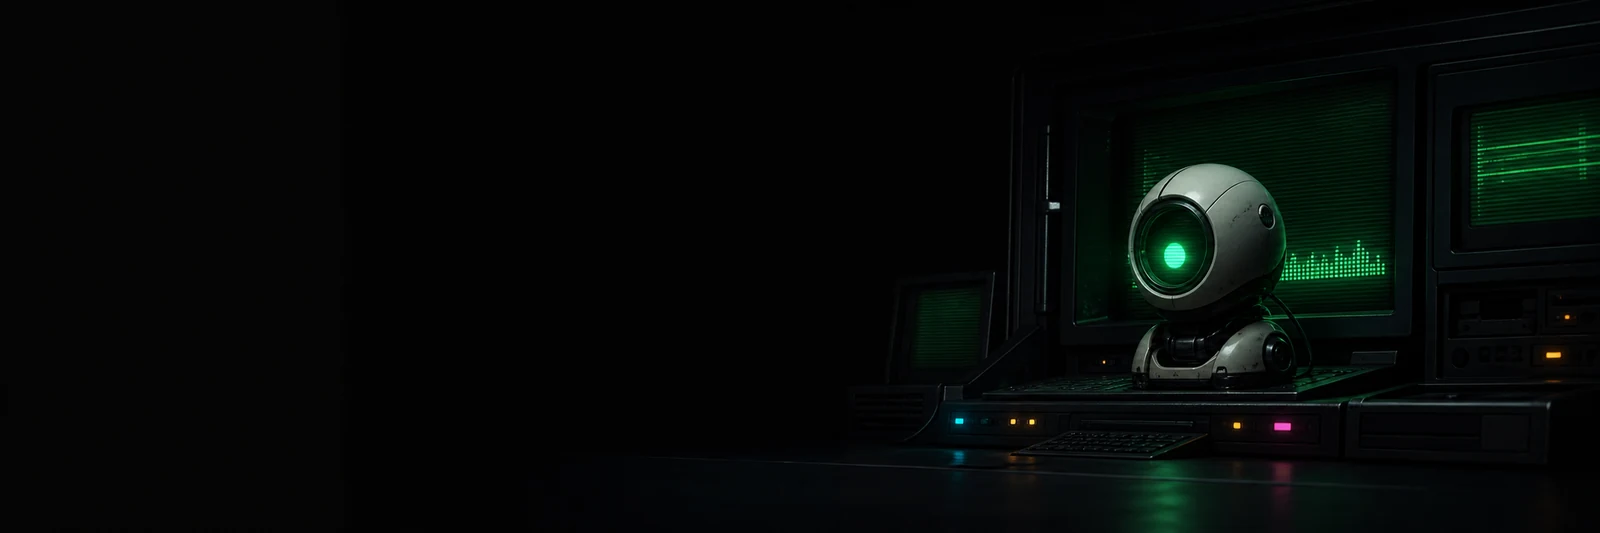
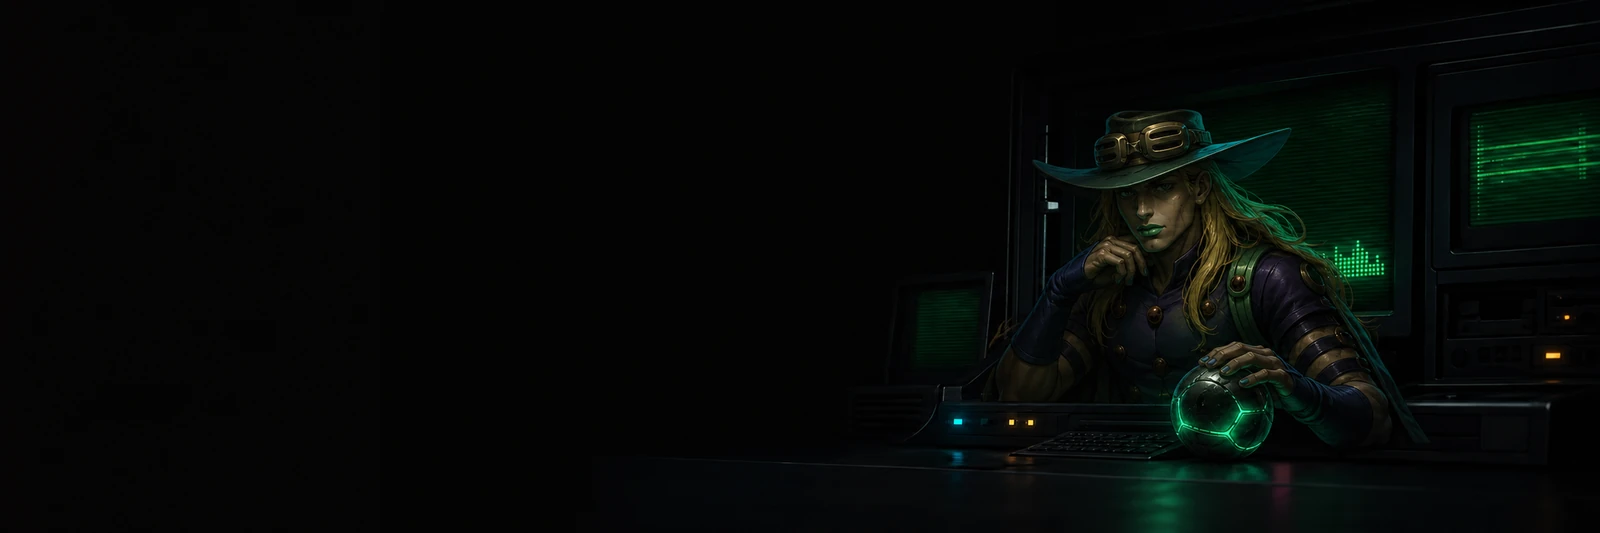
Feature Gyro Zeppeli in profile hero

diff --git a/README.md b/README.md
@@ -1,5 +1,5 @@
 <p align="center">
-  <img src="./assets/gyro-blacksite.webp" alt="Gyro AI operator in a blacksite terminal" width="100%">
+  <img src="./assets/gyro-blacksite.webp" alt="Gyro Zeppeli reimagined as an AI operator in a blacksite terminal" width="100%">
 </p>
 
 <h1 align="center">SHAKH // AI SPECIALIST &amp; DEVELOPER</h1>
